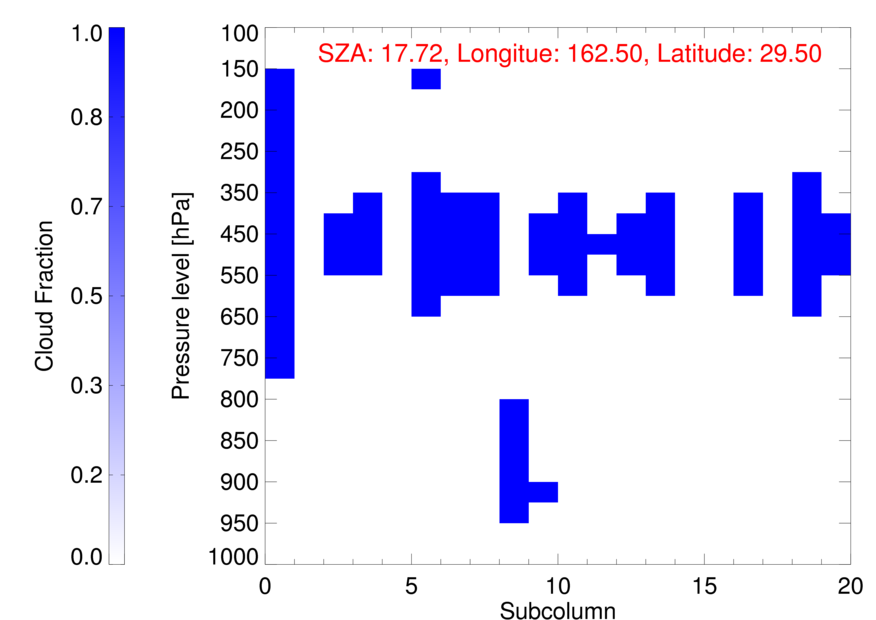
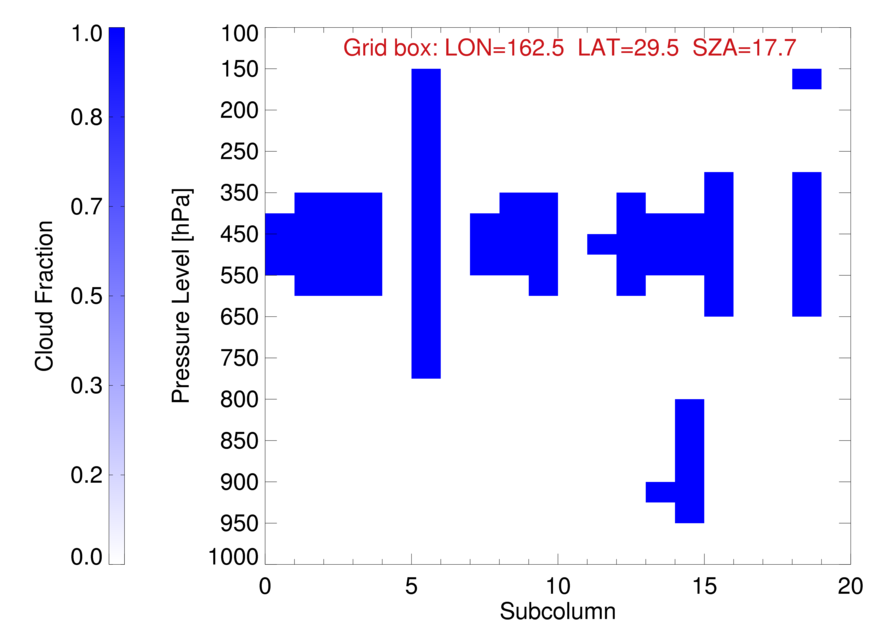
document updated, but not yet finished

diff --git a/latex/content/cloud_simulator.tex b/latex/content/cloud_simulator.tex
@@ -17,15 +17,16 @@ ERA-Interim files per month containing gridbox mean vertical profiles of
 \end{itemize}
 A detailed description of the ERA-Interim data is given in section~\ref{sec:era}.
 The following steps address the things needed to ``simulate'' the observational process.
-In other words, \textbf{what would a satellite see if the atmosphere had the clouds
-of a climate model}?
+In other words, what would a satellite see if the atmosphere had the clouds
+of a climate model?
 
 
 \subsection{Calculation of cloud effective radius, optical thickness and water path}
 
-First of all, the gridbox mean liquid and ice water contents at each model level
-are weighted by the cloud cover profile providing the so-called ``in-cloud'' 
-liquid and ice water contents in order to consider only the cloudy part of the grid cell.
+In the first step the gridbox mean liquid and ice water contents at each model level
+are weighted by the cloud cover profile providing the so-called 
+``in-cloud'' liquid and ice water contents. 
+Thus, only the cloudy part of the grid cell is taken into account.
 Based on these cloud-cover-weighted profiles the liquid ($LWP$) and ice ($IWP$) water paths
 per model layer can be derived, which present the total amount of liquid and ice
 water between two consecutive pressure levels in the atmosphere, respectively.
@@ -35,48 +36,141 @@ The cloud optical thickness ($\tau$) per layer is obtained by the method of \cit
 \begin{equation}\label{eq:han}
     \tau = \frac{3}{4} \frac{CWP \cdot  Q_{ext}}{r_{e} \cdot \rho}
 \end{equation}
-which is also used in CC4CL but to obtain the post-processed $CWP$ 
-based on the retrieved optical thickness and effective radius.
-$Q_{ext}$ denotes the extinction coefficient, which is assumed to be
-2 for water and 2.1 for ice.
+where $CWP$ represents either $LWP$ or $IWP$ depending on the thermodynamic phase.
+$Q_{ext}$ denotes the extinction coefficient, which is assumed to be 2 for water and 2.1 for ice.
 The density $\rho$ is set to 1 $g/m^{3}$ for water and 0.9167 $g/m^{3}$ for ice.
-For the computation of effective radii $r_{e}$ per layer the 
-ERA-Interim parameterizations are implemented in the cloud simulator.
-The cloud droplet effective radius follows the method by \citet{Martin1994} and 
+For the computation of effective radii ($r_{e}$) per layer the 
+ERA-Interim parameterizations are implemented in the cloud simulator.\\
+The cloud droplet effective radius ($r_{e}^{liq}$) follows the method of \citet{Martin1994} and 
 is defined as function of liquid water content and cloud droplet number 
-concentration$\footnote{In the cloud simulator the number of cloud condensation nuclei
-is set to constant values, i.e. 300 over land and 100 over sea, respectively.}$, 
-which in turn depends on the wind speed.
-% Dr Richard Forbes ---------------------------------------------------------
-%ZNTOT = cloud droplet number concentration (dependent on wind speed in 
-%ERAI parametrization, but you could choose fixed values for land and ocean
-%e.g. (300 and 100 respectively)  
-%----------------------------------------------------------------------------
-The ice crystal effective radius is parameterized as a function of 
+concentration, which in turn depends on the wind speed.
+For practical reasons the simulator uses constant values for the number of 
+cloud condensation nuclei over land (300) and over sea (100).
+Hence, a land-sea mask (Fig.~\ref{fig:lsm}) is required, 
+which is obtained from ERA-Interim Sea Surface Temperature (Fig.~\ref{fig:sst}) 
+data aggregated on a 0.5$^{\circ}$ latitude-longitude grid.
+The ice crystal effective radius ($r_{e}^{ice}$) is parameterized as a function of 
 temperature and ice water content based on \citet{Sun1999}, which has been
-revised by \citet{Sun2001}.
+revised by \citet{Sun2001}.\\
+In CC4CL the simultaneously retrieved $\tau^{liq}$ ($\tau^{ice}$) and 
+$r_{e}^{liq}$ ($r_{e}^{ice}$) are combined utilizing the relationship given in 
+Eq.~\ref{eq:han} for deriving $LWP$ ($IWP$) as post-processed product.
+To summarize, the cloud simulator adopts the retrieval characteristic of CC4CL by
+using this equation, however, the other way round for computing the 
+cloud optical thickness per model layer since ERA-Interim provides the information
+on the cloud water content.
+
+%\captionsetup[subfloat]{position=top}
+\begin{figure}[!ht]
+  \begin{minipage}[t]{0.5\textwidth}
+    \subfloat[ERA-Interim land-sea mask (LSM).]
+    {\includegraphics[scale=0.26]{./figures/{lsm_era_interim_0.5_0.5}.png}\label{fig:lsm}}
+  \end{minipage}
+  \begin{minipage}[t]{0.5\textwidth}
+    \subfloat[ERA-Interim sea surface temperature (SST).]
+    {\includegraphics[scale=0.26]{./figures/{sst_era_interim_0.5_0.5}.png}\label{fig:sst}}
+  \end{minipage}
+  \caption[ERA-Interim land-sea mask and sea surface temperature (31/08/2015).]
+{ERA-Interim auxiliary data provided on a 0.5$^{\circ}$ latitude-longitude grid.}\label{fig:lsm_sst}
+\end{figure}
+
 
 
 \subsection{Pseudo retrieval}
-Addressing the mismatch between gridbox mean and satellite footprint;
-``down-scaler'' 
+%Addressing the mismatch between gridbox mean and satellite footprint; %``down-scaler'' 
+In the previous section the pre-processing of pseudo-satellite 
+$\tau$, $r_{e}$, and $CWP$ vertical profiles has been explained,
+which complement along with the original ERA-Interim 3D fields the required
+input data for the pseudo retrieval.
+This is the essential part of the cloud simulator responsible for producing 
+output comparable to Cloud\_cci data in three main steps.
 
-\subsubsection{Statistical aggregation}
-histograms and gridbox mean values
+%1. down-scaling, scops (subgrid cloud overlap profile sampler)
+First, the mismatch in scale between that of the ERA-Interim model grid box
+($\sim$ 500 km) and the satellite footprint ($\sim$ 5 km, e.g. AVHRR) has to be addressed.
+Therefore, the grid box mean profiles (mentioned above) for each latitude-longitude cell
+are broken into 20 subcolumns$\footnote{
+Currently each grid cell is broken into 20 subcolumns.
+Later the number of subcolumns will be a function of latitude.}$ 
+representing the spatial resolution of the sensor.
+Figure~\ref{fig:scops} shows examples for down-scaled cloud paramater profiles 
+for two different grid boxes.
 
-%\begin{figure}[!ht]
-%  \begin{minipage}[c]{0.5\textwidth}
-%    \includegraphics[scale=0.27]{./figures/{sst_era_interim_0.5_0.5}.png}
-%  \end{minipage}\hfill
-%  \begin{minipage}[c]{0.5\textwidth}
-%    \includegraphics[scale=0.27]{./figures/{lsm_era_interim_0.5_0.5}.png}
-%  \end{minipage}
-%  \caption[ERA-Interim sea surface temperature and land-sea mask.]
-%  {ERA-Interim sea surface temperature (left) and land-sea mask (right).} 
-%  \label{fig:lsm}
-%\end{figure}
-%
-%
+
+% cloud profiles 
+\begin{figure}[!ht]
+  \centering
+    \includegraphics[scale=0.17]{./figures/\snapscops_CFC1_profile.png}
+    \includegraphics[scale=0.17]{./figures/\snapscops_COT1_profile.png}
+    \includegraphics[scale=0.17]{./figures/\snapscops_CWP1_profile.png}\\
+    \includegraphics[scale=0.17]{./figures/\snapscops_CFC9_profile.png}
+    \includegraphics[scale=0.17]{./figures/\snapscops_COT9_profile.png}
+    \includegraphics[scale=0.17]{./figures/\snapscops_CWP9_profile.png}
+  \caption[Cloud parameter profiles.]{Cloud fraction,
+cloud optical thickness and cloud water path profiles for
+two different grid boxes at UTC 00 on 1$^{st}$ of \MonthYear.}
+  \label{fig:profiles}
+\end{figure}
+
+Cite here COSP simulator and SCOPS, we use almost the same approach.
+%These subcolumns can be thought of as discrete samples, which 
+%\citet{Bodas2011}.
+Describe how the model information is broken into subcolumns.
+Scale COT greater than 100.
+Only solar COT, CWP, CER due to CC4CL.
+
+
+% subcolumn cloud distribution 
+\begin{figure}[!ht]
+  \centering
+  \begin{minipage}[c]{0.4\textwidth}
+    \includegraphics[scale=0.21]{./figures/\snapscops_CFC1.png}
+    \includegraphics[scale=0.21]{./figures/\snapscops_CPH1.png}
+    \includegraphics[scale=0.21]{./figures/\snapscops_CER1.png}
+    \includegraphics[scale=0.21]{./figures/\snapscops_COT1.png}
+    \includegraphics[scale=0.21]{./figures/\snapscops_CWP1.png}
+  \end{minipage}\hspace*{1cm}
+  \begin{minipage}[c]{0.4\textwidth}
+    \includegraphics[scale=0.21]{./figures/\snapscops_CFC9.png}
+    \includegraphics[scale=0.21]{./figures/\snapscops_CPH9.png}
+    \includegraphics[scale=0.21]{./figures/\snapscops_CER9.png}
+    \includegraphics[scale=0.21]{./figures/\snapscops_COT9.png}
+    \includegraphics[scale=0.21]{./figures/\snapscops_CWP9.png}
+  \end{minipage}
+  \caption[Down-scaled cloud parameter profiles.]{Subcolumn distribution 
+of cloud fraction, phase, effective radius, optical thickness and 
+water path derived from the corresponding grid box mean profiles. 
+The left and right columns demonstrates two different grid cells 
+at UTC 00 on 1$^{st}$ of \MonthYear.}
+  \label{fig:scops}
+\end{figure}
+
+
+
+
+%2. search for upper-most cloud and collect cloud parameters
+
+% cloud top parameters 
+\begin{figure}[!htp]
+  \begin{minipage}{\textwidth}
+    \subfloat[Retrieved cloud top parameters at 29.5 latitude and 162.5 longitude.]
+    {\includegraphics[width=\textwidth]{./figures/\snapscops_retrieved1.png}}
+  \end{minipage}\vspace*{1cm}
+  \begin{minipage}{\textwidth}
+    \subfloat[Retrieved cloud top parameters at 31.5 latitude and 164.0 longitude.]
+    {\includegraphics[width=\textwidth]{./figures/\snapscops_retrieved9.png}}
+  \end{minipage}
+  \caption[Retrieved cloud top parameters based on subcolumn distribution.]
+{Retrieved cloud top parameters for two different grid boxes during daytime
+at UTC 00 on 1$^{st}$ of \MonthYear.}
+\label{fig:retrieved}
+\end{figure}
+
+
+
+%3. collect statistics, i.e. means over subcolumns and 1D, 2D histograms
+
+
 %% CER, CWP, COT only daytime
 %\begin{figure}[!ht]
 %  \begin{minipage}[c]{0.5\textwidth}
@@ -93,30 +187,5 @@ histograms and gridbox mean values
 %\end{figure}
 %
 %
-%% SCOPS snapshots 
-%\begin{figure}[!ht]
-%  \centering
-%  \begin{minipage}[c]{0.4\textwidth}
-%    \includegraphics[scale=0.20]{./figures/\snapscops_cloud_fraction1.png}
-%    \includegraphics[scale=0.20]{./figures/\snapscops_cloud_phase1.png}
-%    \includegraphics[scale=0.20]{./figures/\snapscops_cloud_effective_radius1.png}
-%    \includegraphics[scale=0.20]{./figures/\snapscops_cloud_optical_thickness1.png}
-%    \includegraphics[scale=0.20]{./figures/\snapscops_cloud_water_path1.png}
-%  \end{minipage}
-%  \begin{minipage}[c]{0.4\textwidth}
-%    \includegraphics[scale=0.20]{./figures/\snapscops_cloud_fraction9.png}
-%    \includegraphics[scale=0.20]{./figures/\snapscops_cloud_phase9.png}
-%    \includegraphics[scale=0.20]{./figures/\snapscops_cloud_effective_radius9.png}
-%    \includegraphics[scale=0.20]{./figures/\snapscops_cloud_optical_thickness9.png}
-%    \includegraphics[scale=0.20]{./figures/\snapscops_cloud_water_path9.png}
-%  \end{minipage}
-%  \caption[Down-scaled cloud paramters.]
-%  {These figures show the sub-column distribution of
-%cloud fraction (0-1), phase (0-1), effective radius [$\mu$m], optical thickness 
-%and water path [kg/m$^{2}$] derived from the corresponding grid-box mean profiles. 
-%The left and right columns demonstrates two different grid cells
-%at 0 UTC on 1$^{st}$ of \MonthYear.}
-%  \label{fig:scops}
-%\end{figure}
 
 

diff --git a/latex/doc_simulator.tex b/latex/doc_simulator.tex
@@ -49,6 +49,7 @@
 
 \newpage
 \addcontentsline{toc}{section}{References}
-\bibliography{./doc_simulator}
+\bibliography{shorttitles,database}
+%\bibliography{longtitles,database}
 
 \end{document}
